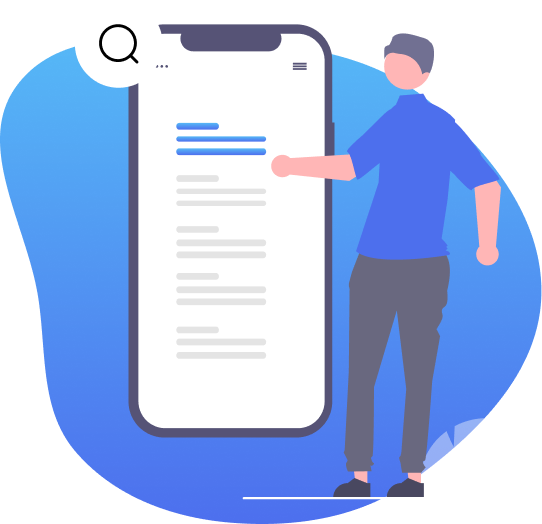
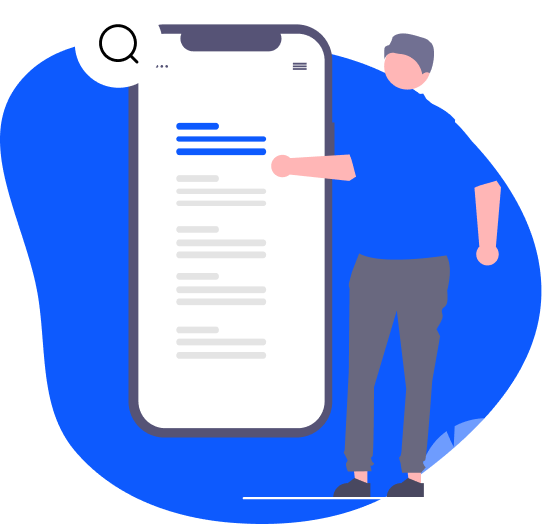
27/10/2023

diff --git a/lib/Job Seeker/Role_Choose/choose_skills.dart b/lib/Job Seeker/Role_Choose/choose_skills.dart
@@ -336,7 +336,7 @@ class _ChooseSkillsState extends State<ChooseSkills> {
                                                           .labelLarge
                                                           ?.copyWith(
                                                           fontWeight: FontWeight.w500,
-                                                          color: isSelected ? Color(0xff56B6F6) : Color(0xffFFFFFF)),))
+                                                          color: isSelected ?AppColors.blueThemeColor : Color(0xffFFFFFF)),))
                                                     ],
                                                   ),
                                                 ),
@@ -455,9 +455,7 @@ class _ChooseSkillsState extends State<ChooseSkills> {
                                                           .labelLarge
                                                           ?.copyWith(
                                                           fontWeight: FontWeight.w700,
-                                                          color: isSelectedPassion
-                                                              ? Color(0xff56B8F6)
-                                                              : Color(0xffFFFFFF)),))
+                                                          color: isSelectedPassion ? AppColors.blueThemeColor : Color(0xffFFFFFF)),))
                                                     ],
                                                   ),
                                                 ),
@@ -573,9 +571,7 @@ class _ChooseSkillsState extends State<ChooseSkills> {
                                                           .labelLarge
                                                           ?.copyWith(
                                                           fontWeight: FontWeight.w700,
-                                                          color: isSelectedpreference
-                                                              ? Color(0xff56B8F6)
-                                                              : Color(0xffFFFFFF)),))
+                                                          color: isSelectedpreference ? AppColors.blueThemeColor : Color(0xffFFFFFF)),))
                                                     ],
                                                   ),
                                                 ),
@@ -692,9 +688,7 @@ class _ChooseSkillsState extends State<ChooseSkills> {
                                                           .labelLarge
                                                           ?.copyWith(
                                                           fontWeight: FontWeight.w700,
-                                                          color: isSelectedstrengths
-                                                              ? Color(0xff56B8F6)
-                                                              : Color(0xffFFFFFF)),))
+                                                          color: isSelectedstrengths ? AppColors.blueThemeColor : Color(0xffFFFFFF)),))
                                                     ],
                                                   ),
                                                 ),
@@ -810,10 +804,7 @@ class _ChooseSkillsState extends State<ChooseSkills> {
                                                             ?.copyWith(
                                                             fontWeight: FontWeight
                                                                 .w700,
-                                                            color: isSelectedSalary
-                                                                ? Color(0xff56B8F6)
-                                                                : Color(
-                                                                0xffFFFFFF)),))
+                                                            color: isSelectedSalary ? AppColors.blueThemeColor : Color(0xffFFFFFF)),))
                                                     ],
                                                   ),
                                                 ),
@@ -932,9 +923,7 @@ class _ChooseSkillsState extends State<ChooseSkills> {
                                                           .labelLarge
                                                           ?.copyWith(
                                                           fontWeight: FontWeight.w700,
-                                                          color: isSelectedWorking
-                                                              ? Color(0xff56B8F6)
-                                                              : Color(0xffFFFFFF)),))
+                                                          color: isSelectedWorking ? AppColors.blueThemeColor : Color(0xffFFFFFF)),))
                                                     ],
                                                   ),
                                                 ),
@@ -1052,10 +1041,7 @@ class _ChooseSkillsState extends State<ChooseSkills> {
                                                             ?.copyWith(
                                                             fontWeight: FontWeight
                                                                 .w700,
-                                                            color: isSelectedAvailability
-                                                                ? Color(0xff56B8F6)
-                                                                : Color(
-                                                                0xffFFFFFF)),))
+                                                            color: isSelectedAvailability ? AppColors.blueThemeColor : Color(0xffFFFFFF)),))
                                                     ],
                                                   ),
                                                 ),

diff --git a/lib/Job Seeker/Authentication/login.dart b/lib/Job Seeker/Authentication/login.dart
@@ -2,6 +2,7 @@
 import 'package:flikka/Job%20Seeker/SeekerBottomNavigationBar/tab_bar.dart';
 import 'package:flikka/controllers/LoginController/LoginController.dart';
 import 'package:flikka/Job%20Seeker/Authentication/sign_up.dart';
+import 'package:flikka/widgets/app_colors.dart';
 import 'package:flikka/widgets/my_button.dart';
 import 'package:flutter/gestures.dart';
 import 'package:flutter/material.dart';
@@ -128,7 +129,7 @@ class _LoginState extends State<Login> {
                       onTap: () {
                         Get.to(() =>const ForgotPassword());
                       },
-                      child: Text("Forgot Password ?",style: Theme.of(context).textTheme.labelLarge?.copyWith(fontWeight: FontWeight.w400,color: Color(0xff56B8F6)),)),
+                      child: Text("Forgot Password ?",style: Theme.of(context).textTheme.labelLarge?.copyWith(fontWeight: FontWeight.w400,color: AppColors.blueThemeColor),)),
                 ),
                 SizedBox(height: Get.height*.02,),
                 Obx(() =>  Center(
@@ -180,7 +181,7 @@ class _LoginState extends State<Login> {
                         TextSpan(
                           recognizer: TapGestureRecognizer()..onTap=()=>Get.to(()=>SignUp()),
                           text: "Sign up",
-                          style: Theme.of(context).textTheme.bodySmall?.copyWith(fontWeight: FontWeight.w400,color: Color(0xff56B8F6),decoration: TextDecoration.underline),
+                          style: Theme.of(context).textTheme.bodySmall?.copyWith(fontWeight: FontWeight.w400,color: AppColors.blueThemeColor,decoration: TextDecoration.underline),
                         ),
                       ],
                     ),

diff --git a/lib/Job Recruiter/AddJobPage/add_a_job_page_area.dart b/lib/Job Recruiter/AddJobPage/add_a_job_page_area.dart
@@ -120,7 +120,6 @@ class _AddAJobPageState extends State<AddAJobPage> {
                                   color: const Color(0xff353535),
                                   borderRadius: BorderRadius.circular(22)
                               ),
-                              //padding of outer Container
                               child:imgFile?.path == null ?
                                 Column(
                                   mainAxisAlignment: MainAxisAlignment.center,
@@ -128,7 +127,6 @@ class _AddAJobPageState extends State<AddAJobPage> {
                               InkWell(
                                 onTap: () async {
                                   _openImagePickerDialog();
-
                                   print("This is imgfile ${imgFile?.path}");
                                 },
                                 child: Stack(
@@ -147,6 +145,15 @@ class _AddAJobPageState extends State<AddAJobPage> {
                                   ],
                                 ) :
                                   Image.file(imgFile! , fit: BoxFit.cover,),
+                            ),
+                            Positioned(
+                              top: 8,
+                              right: 8,
+                              child: imgFile == null ?
+                                  SizedBox() :
+                              IconButton(onPressed: () {
+                                _openImagePickerDialog();
+                              }, icon: Icon(Icons.edit,color: Colors.white,size: 28,)),
                             ),
                           ]
                       ),),

diff --git a/lib/Job Seeker/Role_Choose/choose_role.dart b/lib/Job Seeker/Role_Choose/choose_role.dart
@@ -134,7 +134,7 @@ class _ChooseRoleState extends State<ChooseRole> {
                                               style: Theme.of(context)
                                                   .textTheme
                                                   .headlineSmall
-                                                  ?.copyWith(color: choose ==1?Color(0xff56B8F6):Color(0xffFFFFFF)),
+                                                  ?.copyWith(color: choose ==1?AppColors.blueThemeColor:Color(0xffFFFFFF)),
                                             ),
                                           ),
                                         ),
@@ -184,7 +184,7 @@ class _ChooseRoleState extends State<ChooseRole> {
                                             padding: EdgeInsets.symmetric(horizontal: Get.width*.06),
                                             child: Text(
                                               'I am a Employer',
-                                              style: Theme.of(context).textTheme.labelMedium?.copyWith(fontWeight: FontWeight.w500,color: choose==2?const Color(0xff56B8F6):Colors.white),
+                                              style: Theme.of(context).textTheme.labelMedium?.copyWith(fontWeight: FontWeight.w500,color: choose==2? AppColors.blueThemeColor:Colors.white),
                                             ),
                                           ),
                                         ),

diff --git a/lib/controllers/SignUPController/SignUpController.dart b/lib/controllers/SignUPController/SignUpController.dart
@@ -167,14 +167,15 @@ class SignUpController extends GetxController {
                     onTap: () => Get.back(),
                     child: Container(
                       decoration: BoxDecoration(
-                        gradient: const LinearGradient(
-                            colors: [
-                              Color(0xff56B8F6),
-                              Color(0xff4D6FED)
-                            ],begin: Alignment.topCenter,
-                            end: Alignment.bottomCenter
-
-                        ),
+                        // gradient: const LinearGradient(
+                        //     colors: [
+                        //       Color(0xff56B8F6),
+                        //       Color(0xff4D6FED)
+                        //     ],begin: Alignment.topCenter,
+                        //     end: Alignment.bottomCenter
+                        //
+                        // ),
+                        color: AppColors.blueThemeColor,
                         borderRadius: BorderRadius.circular(12),),
                       child: const Icon(
                         Icons.close,

diff --git a/lib/Job Recruiter/RecruiterHome/find_candidate_home_page.dart b/lib/Job Recruiter/RecruiterHome/find_candidate_home_page.dart
@@ -35,7 +35,7 @@ class _FindCandidateHomePageState extends State<FindCandidateHomePage> {
               mainAxisAlignment: MainAxisAlignment.spaceAround,
               children: [
                 Padding(
-                  padding: EdgeInsets.only(top: Get.height*.035),
+                  padding: EdgeInsets.only(top: Get.height*.032),
                   child: Image.asset('assets/images/icon_flikka_logo.png',height: Get.height*.032,),
                 ),
                 Column(
@@ -58,7 +58,7 @@ class _FindCandidateHomePageState extends State<FindCandidateHomePage> {
                       return InkWell(
                           onTap: ()=> Scaffold.of(context).openEndDrawer(),
                           child: Padding(
-                            padding:  EdgeInsets.only(top: Get.height*.035),
+                            padding:  EdgeInsets.only(top: Get.height*.032),
                             child: Image.asset('assets/images/inactive.png'),
                           ));
                     }

diff --git a/lib/Job Seeker/Authentication/sign_up.dart b/lib/Job Seeker/Authentication/sign_up.dart
@@ -1,6 +1,7 @@
 
 import 'package:flikka/Job%20Seeker/Role_Choose/choose_role.dart';
 import 'package:flikka/controllers/SignUPController/SignUpController.dart';
+import 'package:flikka/widgets/app_colors.dart';
 import 'package:flikka/widgets/my_button.dart';
 import 'package:flutter/gestures.dart';
 import 'package:flutter/material.dart';
@@ -215,7 +216,7 @@ class _SignUpState extends State<SignUp> {
                         TextSpan(
                           recognizer: TapGestureRecognizer()..onTap=()=>Get.to(()=>const Login()),
                           text: "Sign in",
-                          style: Theme.of(context).textTheme.bodySmall?.copyWith(fontWeight: FontWeight.w400,color: Color(0xff56B8F6),decoration: TextDecoration.underline),
+                          style: Theme.of(context).textTheme.bodySmall?.copyWith(fontWeight: FontWeight.w400,color: AppColors.blueThemeColor,decoration: TextDecoration.underline),
                         ),
                       ],
                     ),

diff --git a/lib/Job Recruiter/recruiter_profile/about.dart b/lib/Job Recruiter/recruiter_profile/about.dart
@@ -52,7 +52,7 @@ class _RecruiterAboutState extends State<RecruiterAbout> {
 
               // Text("${widget.recruiterProfileDetails?.founded?.day}-${widget.recruiterProfileDetails?.founded?.month}-${widget.recruiterProfileDetails?.founded?.year}",style: Theme.of(context).textTheme.bodyLarge?.copyWith(fontWeight: FontWeight.w500,color: const Color(0xffCFCFCF)),),
               SizedBox(height: Get.height*.02,),
-              Text("Specialties",style: Theme.of(context).textTheme.bodyLarge?.copyWith(fontWeight: FontWeight.w500,color: const Color(0xffFFFFFF)),),
+              Text("Specialization",style: Theme.of(context).textTheme.bodyLarge?.copyWith(fontWeight: FontWeight.w500,color: const Color(0xffFFFFFF)),),
               SizedBox(height: Get.height*.003,),
               Text(widget.recruiterProfileDetails?.specialties ?? "No Data",style: Theme.of(context).textTheme.bodyLarge?.copyWith(fontWeight: FontWeight.w500,color: const Color(0xffCFCFCF)),),
 

diff --git a/lib/Job Seeker/Role_Choose/location_pop_up.dart b/lib/Job Seeker/Role_Choose/location_pop_up.dart
@@ -1,4 +1,5 @@
 
+import 'package:flikka/widgets/app_colors.dart';
 import 'package:flutter/material.dart';
 import 'package:get/get.dart';
 
@@ -31,7 +32,7 @@ class _LocationPopUpState extends State<LocationPopUp> {
                 child: Column(
                   children: [
                     SizedBox(height: Get.height*.06,),
-                    Image.asset("assets/images/location_icon.png",height: Get.height*.09,),
+                    Image.asset("assets/images/location_icon.png",height: Get.height*.09,color: AppColors.blueThemeColor,),
                     SizedBox(height: Get.height*.01,),
                     Text("Welcome!",style: Theme.of(context).textTheme.headlineSmall?.copyWith(fontWeight: FontWeight.w700),),
                     SizedBox(height: Get.height*.01,),

diff --git a/lib/Job Seeker/SeekerHome/find_job_home_page.dart b/lib/Job Seeker/SeekerHome/find_job_home_page.dart
@@ -98,7 +98,7 @@ class _FindJobHomeScreenState extends State<FindJobHomeScreen> {
                   children: [
                     Padding(
                       padding: const EdgeInsets.only(top: 25.0),
-                      child: Image.asset('assets/images/icon_flikka_logo.png',height: Get.height*.04, fit: BoxFit.contain),
+                      child: Image.asset('assets/images/icon_flikka_logo.png',height: Get.height*.032, ),
                     ),
                     Column(
                       mainAxisAlignment: MainAxisAlignment.center,

diff --git a/lib/Job Seeker/Role_Choose/choose_position.dart b/lib/Job Seeker/Role_Choose/choose_position.dart
@@ -286,7 +286,7 @@ void showSkipDialog(BuildContext context) {
                                         children: [
                                           const Icon(
                                             Icons.search,
-                                            color: Color(0xff56B8F6),
+                                            color: AppColors.blueThemeColor,
                                             size: 30,
                                           ),
                                           SizedBox(width: Get.width * .03),

diff --git a/lib/Job Seeker/splash_screen.dart b/lib/Job Seeker/splash_screen.dart
@@ -27,7 +27,7 @@ class _SplashScreenState extends State<SplashScreen> {
     return Scaffold(
       backgroundColor: Colors.black,
       body: Center(
-        child: Image.asset("assets/images/icon_splash_logo.png",fit: BoxFit.cover),
+        child: Image.asset("assets/images/icon_splash_logo.jpg",fit: BoxFit.cover),
       ),
     );
   }
